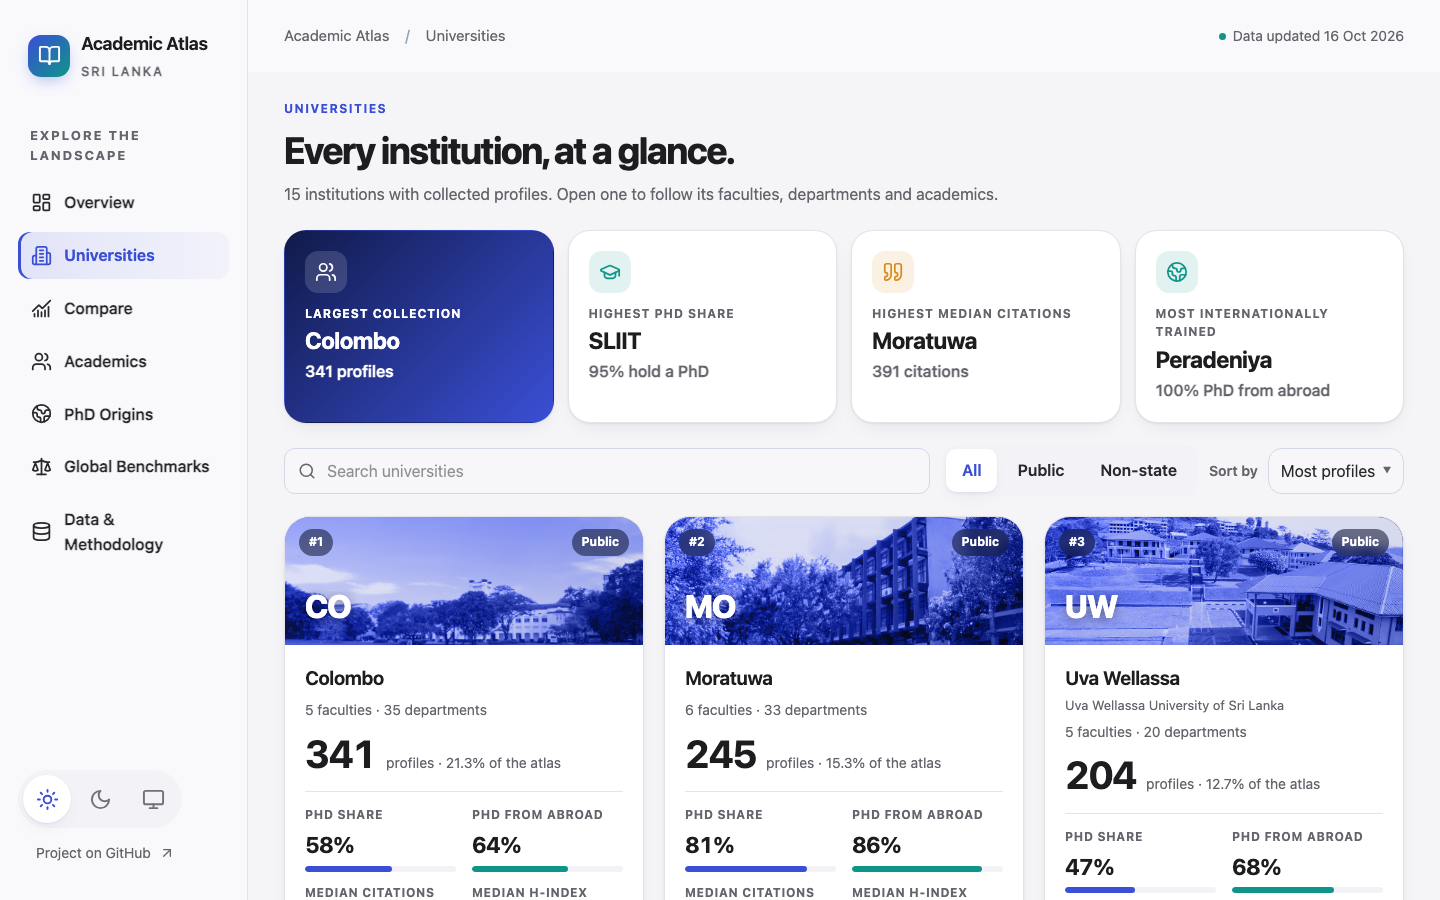
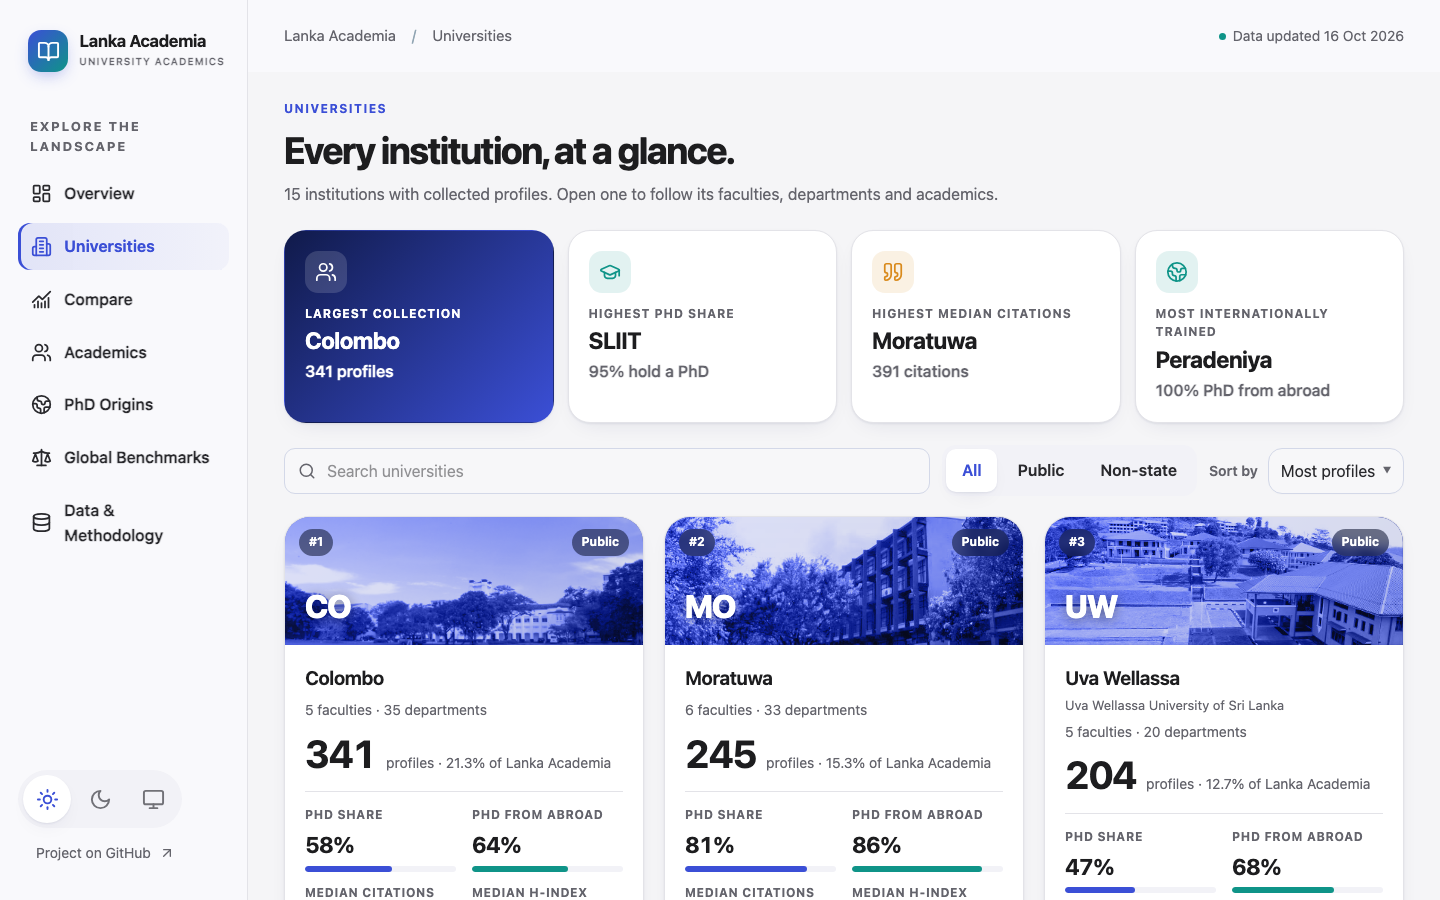
Rename the project to Lanka Academia

diff --git a/src/styles.css b/src/styles.css
@@ -2565,7 +2565,7 @@ th > .column-filter {
   .global-preview .section-heading { flex-direction: column; align-items: flex-start; gap: .5rem; }
 }
 
-/* Readable, quiet surfaces and aligned data across the atlas. */
+/* Readable, quiet surfaces and aligned data across the app. */
 :root:not([data-theme="dark"]) { --bg: #f5f5f7; --soft: #f2f2f7; --text: #29292d; --heading: #1d1d1f; --muted: #64646c; --border: #e3e3e8; --nav: rgba(250,250,252,.94); color: var(--text); background: var(--bg); }
 .table-scroll { border-radius: 14px; scrollbar-color: var(--border) transparent; }
 table { font-size: 1rem; }
@@ -2942,7 +2942,7 @@ table tbody tr:focus-within td { background: color-mix(in srgb, var(--blue) 7%, 
 .button.primary { color: #fff; }
 
 /* ======================================================================
-   Atlas v2 — visual system. Ink, indigo and teal; generous radii; one
+   Lanka Academia visual system. Ink, indigo and teal; generous radii; one
    highlighted fact per surface. Loaded last so it wins the cascade.
    ====================================================================== */
 :root {
@@ -3573,3 +3573,7 @@ a { color: var(--accent); }
 .pos-toolbar .field > select, .pos-toolbar .field .select, .pos-toolbar .field > div:not(.chip-group) { height: 46px; margin: 0; }
 .pos-toolbar .chip-group { height: 46px !important; margin: 0 !important; box-shadow: none; }
 .pos-toolbar .chip-group button { margin: 0; }
+
+/* Brand lockup fits the sidebar: name on one line, small caption beneath. */
+.brand > span:last-child { display: flex; flex-direction: column; line-height: 1.15; min-width: 0; font-size: 1.05rem; font-weight: 700; white-space: nowrap; }
+.brand small { font-size: 0.625rem; letter-spacing: 0.1em; white-space: nowrap; }

diff --git a/src/reports/person-pdf.ts b/src/reports/person-pdf.ts
@@ -399,7 +399,7 @@ export async function buildPersonReport(
 
   // ---------- method & limits ----------
   heading("About this report");
-  para("Figures describe the collected profiles in the Sri Lanka Academic Atlas, not all academics, and not a measure of teaching, service or overall academic quality. Citation counts differ by source and field. Missing values are unknown, never zero, and are skipped. Percentiles need at least " + MIN_SAMPLE + " peers with a value from the same source unless the score is marked indicative.", M, CW, 9, MUTED);
+  para("Figures describe the collected profiles in Lanka Academia, not all academics, and not a measure of teaching, service or overall academic quality. Citation counts differ by source and field. Missing values are unknown, never zero, and are skipped. Percentiles need at least " + MIN_SAMPLE + " peers with a value from the same source unless the score is marked indicative.", M, CW, 9, MUTED);
   y += 2;
   para("Method: docs/STANDING_SCORE.md  |  Data dictionary and policy: Data files/README.md  |  Source: https://maninka123.github.io/academic-lens-lk/", M, CW, 8.5, MUTED);
 
@@ -410,7 +410,7 @@ export async function buildPersonReport(
     doc.setDrawColor(LINE);
     doc.setLineWidth(0.3);
     doc.line(M, H - 12, W - M, H - 12);
-    text(`Sri Lanka Academic Atlas  |  ${person.name}`, M, H - 7, 7.5, "normal", MUTED);
+    text(`Lanka Academia  |  ${person.name}`, M, H - 7, 7.5, "normal", MUTED);
     text(`Page ${p} of ${pages}`, W - M, H - 7, 7.5, "normal", MUTED, { align: "right" });
   }
   return doc;

diff --git a/src/pages/Overview.tsx b/src/pages/Overview.tsx
@@ -125,7 +125,7 @@ export function Overview() {
   ];
   return (
     <>
-      <section className="hero" aria-label="Atlas summary">
+      <section className="hero" aria-label="Summary">
         <span
           className="hero-corner"
           title={`Any research metric ${pct(cov.withMetric)} · qualifications ${pct(cov.withQualifications)} · ${fmt(cov.needsReview)} need review`}
@@ -134,7 +134,7 @@ export function Overview() {
           Data completeness {pct(cov.withMetric)}
         </span>
         <div className="hero-copy">
-          <div className="eyebrow">Sri Lanka · Academic research atlas</div>
+          <div className="eyebrow">Sri Lanka · Academic research</div>
           <h1>Sri Lanka’s academic landscape.</h1>
           <p>
             Explore academics, qualifications and research — across Sri Lanka
@@ -196,7 +196,7 @@ export function Overview() {
         />
       </div>
       <section aria-label="Research questions" className="research-questions">
-        <h2>Explore the atlas</h2>
+        <h2>Explore Lanka Academia</h2>
         <div className="question-grid">
           {questions.map(({ icon: Icon, q, sub, go }) => (
             <button key={q} className="question-card" onClick={go}>

diff --git a/src/App.tsx b/src/App.tsx
@@ -174,7 +174,7 @@ function Shell() {
             <BookOpen size={23} />
           </span>
           <span>
-            Academic Atlas<small>SRI LANKA</small>
+            Lanka Academia<small>UNIVERSITY ACADEMICS</small>
           </span>
         </Link>
         <div className="nav-caption">EXPLORE THE LANDSCAPE</div>
@@ -245,7 +245,7 @@ function Shell() {
               <Menu size={22} />
             </Button>
             <span className="breadcrumb">
-              Academic Atlas <span>/</span>{" "}
+              Lanka Academia <span>/</span>{" "}
               {routes.find(
                 ([p]) => p !== "/" && location.pathname.startsWith(p),
               )?.[1] ||
@@ -343,7 +343,7 @@ function Shell() {
             >
               Notice & corrections
             </a>{" "}
-            <span>Sri Lanka Academic Atlas · 2026</span>
+            <span>Lanka Academia · 2026</span>
           </footer>
         </main>
       </div>

diff --git a/src/pages/Universities.tsx b/src/pages/Universities.tsx
@@ -71,7 +71,7 @@ function UniversityCard({ s, rank, min }: { s: UniversityStats; rank: number; mi
         </p>
         <div className="uni-headline">
           <strong>{fmt(s.profiles)}</strong>
-          <span>profiles · {s.share.toFixed(1)}% of the atlas</span>
+          <span>profiles · {s.share.toFixed(1)}% of Lanka Academia</span>
         </div>
         <dl className="uni-facts">
           <div>

diff --git a/src/components/common.tsx b/src/components/common.tsx
@@ -132,7 +132,7 @@ export function exportCsv(rows: Academic[]) {
       ]),
     ),
   );
-  download("academic-atlas-records.csv", "\uFEFF" + Papa.unparse(safe));
+  download("lanka-academia-records.csv", "\uFEFF" + Papa.unparse(safe));
 }
 const COUNTRY_CODES: Record<string, string> = {
   "Sri Lanka": "LK", "United Kingdom": "GB", "United States": "US", Australia: "AU",

diff --git a/src/analytics/exports.ts b/src/analytics/exports.ts
@@ -68,7 +68,7 @@ export function statisticsCsv(ctx: ExportContext, rows: ExportRow[]) {
 export function exportStatistics(
   ctx: ExportContext,
   rows: ExportRow[],
-  name = "academic-atlas-statistics.csv",
+  name = "lanka-academia-statistics.csv",
 ) {
   download(name, "" + statisticsCsv(ctx, rows));
 }

diff --git a/index.html b/index.html
@@ -9,7 +9,7 @@
       name="description"
       content="Explore Sri Lankan academic profiles, compare peer groups, and understand research data coverage."
     />
-    <title>Sri Lanka Academic Atlas</title>
+    <title>Lanka Academia</title>
   </head>
   <body>
     <div id="root"></div>

diff --git a/src/components/Chart.tsx b/src/components/Chart.tsx
@@ -126,7 +126,7 @@ function ChartCanvas({
     if (url) {
       const a = document.createElement("a");
       a.href = url;
-      a.download = "academic-atlas-chart.png";
+      a.download = "lanka-academia-chart.png";
       a.click();
     }
   }

diff --git a/docs/PROJECT_GUIDE.md b/docs/PROJECT_GUIDE.md
@@ -1,10 +1,9 @@
-# Sri Lanka Academic Atlas
+# Lanka Academia
 
 Explore Sri Lankan academic profiles, compare peer groups, and keep research data coverage visible.
 
 **[Open the website](https://maninka123.github.io/academic-lens-lk/)** · [Editable dataset guide](../Data%20files/README.md) · [Collection prompt](../DATA_COLLECTION_PROMPT.md)
 
-![Academic Atlas overview](screenshots/overview.png)
 
 ## What you can do
 
@@ -19,9 +18,7 @@ Explore Sri Lankan academic profiles, compare peer groups, and keep research dat
 - Keep people without a documented department at faculty level, with no invented department groups.
 - Use light/dark appearance, keyboard-accessible fullscreen charts, and readable desktop, tablet and mobile layouts.
 
-![Comparison Studio](screenshots/comparison-studio.png)
 
-![Individual profile and peer comparisons](screenshots/person-profile.png)
 
 [Interface audit and edge-case coverage](AUDIT.md)
 
@@ -93,7 +90,7 @@ Missing values are excluded from metric denominators and never treated as zero. 
 
 Combined career publication/citation totals are **not** a university's historical output and may repeat coauthored work. h-index values are never summed. Five-year citations refer to citations received in 2021–2025; five-year Q1 refers to qualifying papers published in that period. Citation position does not measure overall academic or teaching quality. Full definitions and completeness tables are on **Data & Methodology**.
 
-World boundaries: Natural Earth via [world-atlas](https://github.com/topojson/world-atlas), bundled locally. Screenshots show the real collected dataset.
+World boundaries: Natural Earth via [world-atlas](https://github.com/topojson/world-atlas), bundled locally. Figures describe the real collected dataset.
 
 ## Display names and verification
 

diff --git a/DATA_LICENSE.md b/DATA_LICENSE.md
@@ -2,7 +2,7 @@
 
 The compiled dataset published by this project (`public/data/`, and the CSV and PDF exports generated by the app) is licensed under **Creative Commons Attribution 4.0 International (CC BY 4.0)**: <https://creativecommons.org/licenses/by/4.0/>
 
-You may copy, redistribute, adapt and use it for any purpose, including commercially, **as long as you give credit** (for example: "Sri Lanka Academic Atlas, https://github.com/maninka123/academic-lens-lk") and indicate if changes were made.
+You may copy, redistribute, adapt and use it for any purpose, including commercially, **as long as you give credit** (for example: "Lanka Academia, https://github.com/maninka123/academic-lens-lk") and indicate if changes were made.
 
 This licence covers the project's *compilation* only. It does not cover third-party material or the individuals' own works; see [NOTICE.md](NOTICE.md). The software is under the [MIT License](LICENSE).
 

diff --git a/docs/DATA_POLICY.md b/docs/DATA_POLICY.md
@@ -26,7 +26,7 @@ The website is static. Although the repository is private, the deployed site and
 
 Academic records are compiled from official university websites (directories and individual profile pages). Research metrics come from Google Scholar, ResearchGate and OpenAlex as recorded with each value, with retrieval dates. International benchmark rosters come from official department directories; benchmark rankings come from the QS World University Rankings 2027. Map boundaries: Natural Earth via world-atlas.
 
-Cite the dataset with its snapshot version (shown on the site and in `dataset_summary.json`), for example: *Sri Lanka Academic Atlas, dataset version partial-xxxxxxxxxx, collected YYYY-MM-DD.*
+Cite the dataset with its snapshot version (shown on the site and in `dataset_summary.json`), for example: *Lanka Academia, dataset version partial-xxxxxxxxxx, collected YYYY-MM-DD.*
 
 ## Limitations that apply to every use
 
